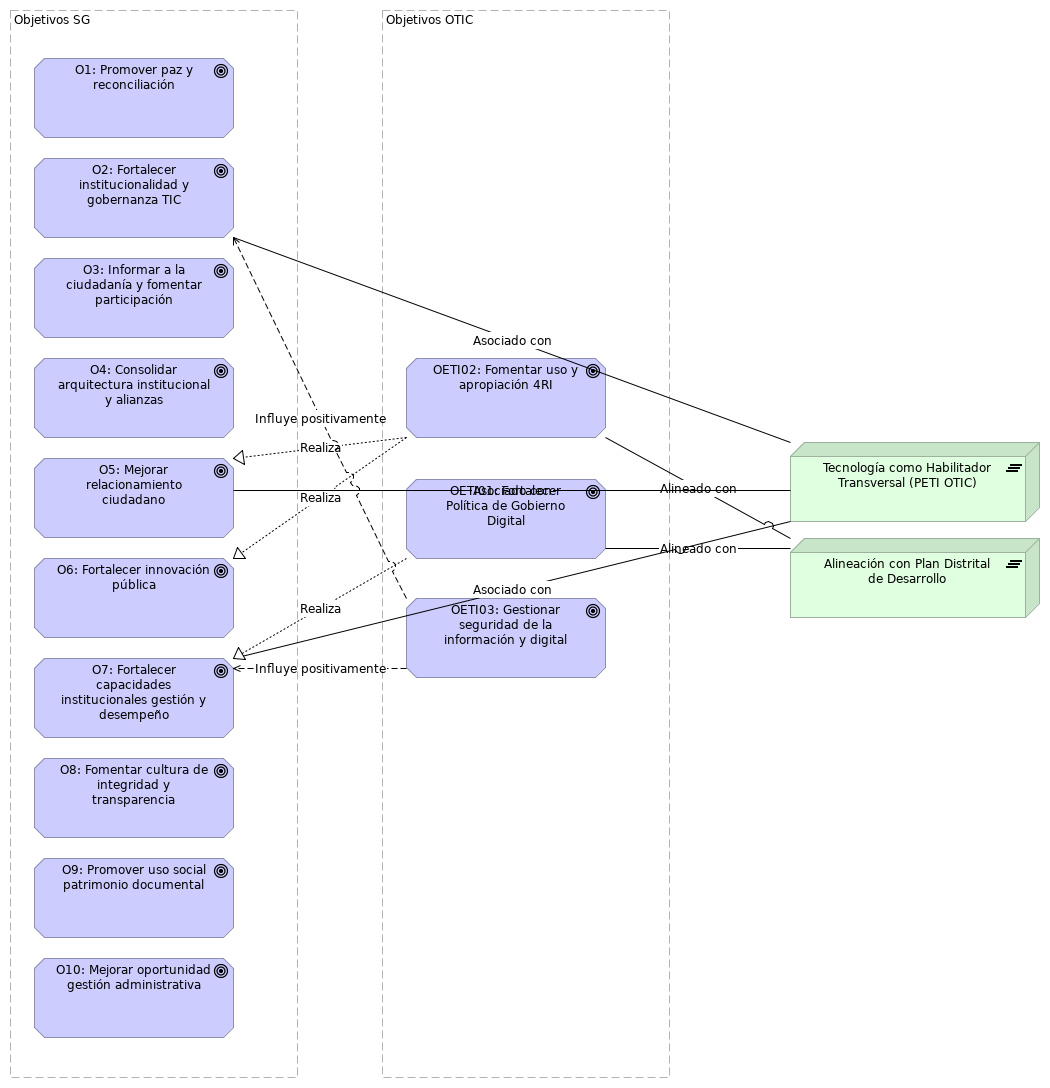
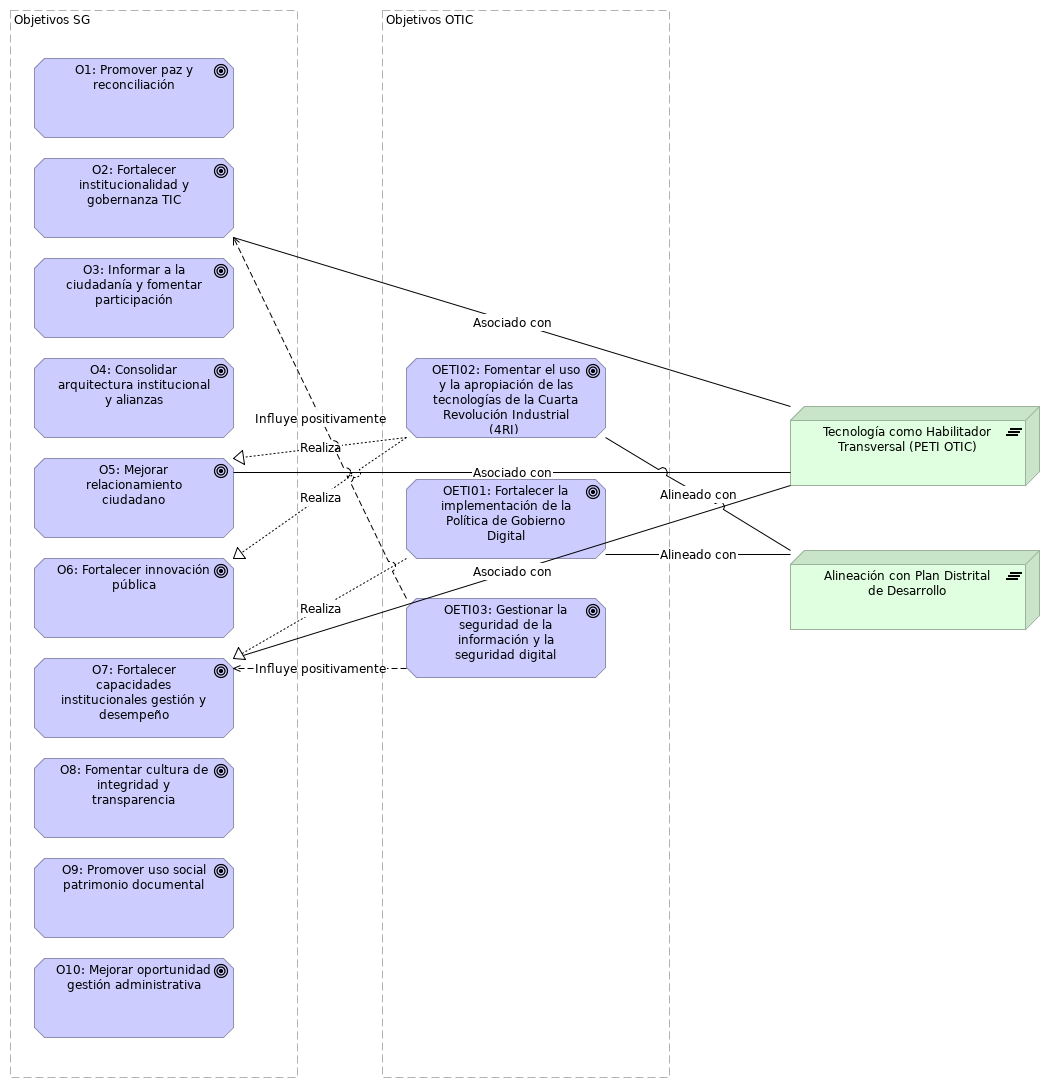
accion-actualizacionContd

diff --git a/contd/report/id-e61caa0dc3cc436aa918b17e0f565135/views/id-257a9a842fe0459c88cf09c4ebd37805.html b/contd/report/id-e61caa0dc3cc436aa918b17e0f565135/views/id-257a9a842fe0459c88cf09c4ebd37805.html
@@ -33,8 +33,8 @@
 		    <!-- If this is a digram model (has children and no bounds) show the image -->
 			   <img class="diagram" src="../images/id-257a9a842fe0459c88cf09c4ebd37805.png" alt="06.BMM. Objetivos SG-OTIC" usemap="#id-257a9a842fe0459c88cf09c4ebd37805map"/>
 			   <map name="id-257a9a842fe0459c88cf09c4ebd37805map">
-				  		<area shape="rect" coords="790,538,1040,618" href="../elements/id-b81286a1511f4cd499367182180f0ddb.html"  target="element">
-				  		<area shape="rect" coords="790,442,1040,522" href="../elements/id-5137f325d7364db0bc343ace4139ba3e.html"  target="element">
+				  		<area shape="rect" coords="790,550,1040,630" href="../elements/id-b81286a1511f4cd499367182180f0ddb.html"  target="element">
+				  		<area shape="rect" coords="790,406,1040,486" href="../elements/id-5137f325d7364db0bc343ace4139ba3e.html"  target="element">
 				  				<area shape="rect" coords="406,598,606,678" href="../elements/id-82f5c98e85bd4038ad25345d8758fb14.html"  target="element">
 				  				<area shape="rect" coords="406,358,606,438" href="../elements/id-13c3934dc188447f842bfd7fa291134e.html"  target="element">
 				  				<area shape="rect" coords="406,479,606,559" href="../elements/id-4780038f0aa24faab7ea555021126bee.html"  target="element">
@@ -170,19 +170,19 @@
 											</tr>
 
 													<tr>
-													    <td> <a href="../elements/id-4780038f0aa24faab7ea555021126bee.html" target="element"> OETI01: Fortalecer Pol&#237;tica de Gobierno Digital </a> </td>
+													    <td> <a href="../elements/id-4780038f0aa24faab7ea555021126bee.html" target="element"> OETI01: Fortalecer la implementaci&#243;n de la Pol&#237;tica de Gobierno Digital </a> </td>
 													    <td> <a href="../elements/id-4780038f0aa24faab7ea555021126bee.html" target="element" class="i18n-elementtype-Goal">
 													    </a> </td>
 													</tr>
 
 													<tr>
-													    <td> <a href="../elements/id-13c3934dc188447f842bfd7fa291134e.html" target="element"> OETI02: Fomentar uso y apropiaci&#243;n 4RI </a> </td>
+													    <td> <a href="../elements/id-13c3934dc188447f842bfd7fa291134e.html" target="element"> OETI02: Fomentar el uso y la apropiaci&#243;n de las tecnolog&#237;as de la Cuarta Revoluci&#243;n Industrial (4RI)  </a> </td>
 													    <td> <a href="../elements/id-13c3934dc188447f842bfd7fa291134e.html" target="element" class="i18n-elementtype-Goal">
 													    </a> </td>
 													</tr>
 
 													<tr>
-													    <td> <a href="../elements/id-82f5c98e85bd4038ad25345d8758fb14.html" target="element"> OETI03: Gestionar seguridad de la informaci&#243;n y digital </a> </td>
+													    <td> <a href="../elements/id-82f5c98e85bd4038ad25345d8758fb14.html" target="element"> OETI03: Gestionar la seguridad de la informaci&#243;n y la seguridad digital </a> </td>
 													    <td> <a href="../elements/id-82f5c98e85bd4038ad25345d8758fb14.html" target="element" class="i18n-elementtype-Goal">
 													    </a> </td>
 													</tr>
@@ -292,28 +292,28 @@
 																		<td> <a href="../elements/id-653c42175b3943288541f40f299f6028.html" target="element" class="i18n-elementtype-CompositionRelationship">
 																		</a> </td>
 																		<td> <a href="../elements/id-2c7df20247e149c7b367a3b05b79568f.html" target="element"> Objetivos OTIC </a> </td>
-																		<td> <a href="../elements/id-4780038f0aa24faab7ea555021126bee.html" target="element"> OETI01: Fortalecer Pol&#237;tica de Gobierno Digital </a> </td>
+																		<td> <a href="../elements/id-4780038f0aa24faab7ea555021126bee.html" target="element"> OETI01: Fortalecer la implementaci&#243;n de la Pol&#237;tica de Gobierno Digital </a> </td>
 																	</tr>
 																	<tr>
 																		<td> <a href="../elements/id-a9c17f5166ed4c8ebe899b2199fe4386.html" target="element">  </a> </td>
 																		<td> <a href="../elements/id-a9c17f5166ed4c8ebe899b2199fe4386.html" target="element" class="i18n-elementtype-CompositionRelationship">
 																		</a> </td>
 																		<td> <a href="../elements/id-2c7df20247e149c7b367a3b05b79568f.html" target="element"> Objetivos OTIC </a> </td>
-																		<td> <a href="../elements/id-13c3934dc188447f842bfd7fa291134e.html" target="element"> OETI02: Fomentar uso y apropiaci&#243;n 4RI </a> </td>
+																		<td> <a href="../elements/id-13c3934dc188447f842bfd7fa291134e.html" target="element"> OETI02: Fomentar el uso y la apropiaci&#243;n de las tecnolog&#237;as de la Cuarta Revoluci&#243;n Industrial (4RI)  </a> </td>
 																	</tr>
 																	<tr>
 																		<td> <a href="../elements/id-aca4162b0955420ea85ecce04d5fecb3.html" target="element">  </a> </td>
 																		<td> <a href="../elements/id-aca4162b0955420ea85ecce04d5fecb3.html" target="element" class="i18n-elementtype-CompositionRelationship">
 																		</a> </td>
 																		<td> <a href="../elements/id-2c7df20247e149c7b367a3b05b79568f.html" target="element"> Objetivos OTIC </a> </td>
-																		<td> <a href="../elements/id-82f5c98e85bd4038ad25345d8758fb14.html" target="element"> OETI03: Gestionar seguridad de la informaci&#243;n y digital </a> </td>
+																		<td> <a href="../elements/id-82f5c98e85bd4038ad25345d8758fb14.html" target="element"> OETI03: Gestionar la seguridad de la informaci&#243;n y la seguridad digital </a> </td>
 																	</tr>
 
 																			<tr>
 																				<td> <a href="../elements/id-edbeecf9ab044d0585a103f41d7e1c81.html" target="element"> Realiza </a> </td>
 																				<td> <a href="../elements/id-edbeecf9ab044d0585a103f41d7e1c81.html" target="element" class="i18n-elementtype-RealizationRelationship">
 																				</a> </td>
-																				<td> <a href="../elements/id-4780038f0aa24faab7ea555021126bee.html" target="element"> OETI01: Fortalecer Pol&#237;tica de Gobierno Digital </a> </td>
+																				<td> <a href="../elements/id-4780038f0aa24faab7ea555021126bee.html" target="element"> OETI01: Fortalecer la implementaci&#243;n de la Pol&#237;tica de Gobierno Digital </a> </td>
 																				<td> <a href="../elements/id-420057a3db3f4cc88b8645ee8a26527a.html" target="element"> O7: Fortalecer capacidades institucionales gesti&#243;n y desempe&#241;o </a> </td>
 																			</tr>
 
@@ -321,14 +321,14 @@
 																				<td> <a href="../elements/id-3370267003754503a9a075bf1a8cc7e0.html" target="element"> Realiza </a> </td>
 																				<td> <a href="../elements/id-3370267003754503a9a075bf1a8cc7e0.html" target="element" class="i18n-elementtype-RealizationRelationship">
 																				</a> </td>
-																				<td> <a href="../elements/id-13c3934dc188447f842bfd7fa291134e.html" target="element"> OETI02: Fomentar uso y apropiaci&#243;n 4RI </a> </td>
+																				<td> <a href="../elements/id-13c3934dc188447f842bfd7fa291134e.html" target="element"> OETI02: Fomentar el uso y la apropiaci&#243;n de las tecnolog&#237;as de la Cuarta Revoluci&#243;n Industrial (4RI)  </a> </td>
 																				<td> <a href="../elements/id-e79fa3327114461f8c74521f3de4fe35.html" target="element"> O6: Fortalecer innovaci&#243;n p&#250;blica </a> </td>
 																			</tr>
 																			<tr>
 																				<td> <a href="../elements/id-b9ee74c95c08409182be0b0aa73422ff.html" target="element"> Realiza </a> </td>
 																				<td> <a href="../elements/id-b9ee74c95c08409182be0b0aa73422ff.html" target="element" class="i18n-elementtype-RealizationRelationship">
 																				</a> </td>
-																				<td> <a href="../elements/id-13c3934dc188447f842bfd7fa291134e.html" target="element"> OETI02: Fomentar uso y apropiaci&#243;n 4RI </a> </td>
+																				<td> <a href="../elements/id-13c3934dc188447f842bfd7fa291134e.html" target="element"> OETI02: Fomentar el uso y la apropiaci&#243;n de las tecnolog&#237;as de la Cuarta Revoluci&#243;n Industrial (4RI)  </a> </td>
 																				<td> <a href="../elements/id-08d0a3e26e6a48cfa49fc0914f5942b9.html" target="element"> O5: Mejorar relacionamiento ciudadano </a> </td>
 																			</tr>
 
@@ -336,14 +336,14 @@
 																				<td> <a href="../elements/id-fd98fded5e9b4cd1900b3d3caf2c8e5c.html" target="element"> Influye positivamente </a> </td>
 																				<td> <a href="../elements/id-fd98fded5e9b4cd1900b3d3caf2c8e5c.html" target="element" class="i18n-elementtype-InfluenceRelationship">
 																				</a> </td>
-																				<td> <a href="../elements/id-82f5c98e85bd4038ad25345d8758fb14.html" target="element"> OETI03: Gestionar seguridad de la informaci&#243;n y digital </a> </td>
+																				<td> <a href="../elements/id-82f5c98e85bd4038ad25345d8758fb14.html" target="element"> OETI03: Gestionar la seguridad de la informaci&#243;n y la seguridad digital </a> </td>
 																				<td> <a href="../elements/id-420057a3db3f4cc88b8645ee8a26527a.html" target="element"> O7: Fortalecer capacidades institucionales gesti&#243;n y desempe&#241;o </a> </td>
 																			</tr>
 																			<tr>
 																				<td> <a href="../elements/id-ad50025a6a1840b6af28b294d8632d71.html" target="element"> Influye positivamente </a> </td>
 																				<td> <a href="../elements/id-ad50025a6a1840b6af28b294d8632d71.html" target="element" class="i18n-elementtype-InfluenceRelationship">
 																				</a> </td>
-																				<td> <a href="../elements/id-82f5c98e85bd4038ad25345d8758fb14.html" target="element"> OETI03: Gestionar seguridad de la informaci&#243;n y digital </a> </td>
+																				<td> <a href="../elements/id-82f5c98e85bd4038ad25345d8758fb14.html" target="element"> OETI03: Gestionar la seguridad de la informaci&#243;n y la seguridad digital </a> </td>
 																				<td> <a href="../elements/id-f934fe202519444ab5a4389e016fcc28.html" target="element"> O2: Fortalecer institucionalidad y gobernanza TIC </a> </td>
 																			</tr>
 
@@ -375,14 +375,14 @@
 																		<td> <a href="../elements/id-f7bef9b26525468d8a13c41f239442a1.html" target="element" class="i18n-elementtype-AssociationRelationship">
 																		</a> </td>
 																		<td> <a href="../elements/id-b81286a1511f4cd499367182180f0ddb.html" target="element"> Alineaci&#243;n con Plan Distrital de Desarrollo </a> </td>
-																		<td> <a href="../elements/id-4780038f0aa24faab7ea555021126bee.html" target="element"> OETI01: Fortalecer Pol&#237;tica de Gobierno Digital </a> </td>
+																		<td> <a href="../elements/id-4780038f0aa24faab7ea555021126bee.html" target="element"> OETI01: Fortalecer la implementaci&#243;n de la Pol&#237;tica de Gobierno Digital </a> </td>
 																	</tr>
 																	<tr>
 																		<td> <a href="../elements/id-7c72a7465f554ecb9ca8c0aadff52ece.html" target="element"> Alineado con </a> </td>
 																		<td> <a href="../elements/id-7c72a7465f554ecb9ca8c0aadff52ece.html" target="element" class="i18n-elementtype-AssociationRelationship">
 																		</a> </td>
 																		<td> <a href="../elements/id-b81286a1511f4cd499367182180f0ddb.html" target="element"> Alineaci&#243;n con Plan Distrital de Desarrollo </a> </td>
-																		<td> <a href="../elements/id-13c3934dc188447f842bfd7fa291134e.html" target="element"> OETI02: Fomentar uso y apropiaci&#243;n 4RI </a> </td>
+																		<td> <a href="../elements/id-13c3934dc188447f842bfd7fa291134e.html" target="element"> OETI02: Fomentar el uso y la apropiaci&#243;n de las tecnolog&#237;as de la Cuarta Revoluci&#243;n Industrial (4RI)  </a> </td>
 																	</tr>
 
 

diff --git a/contd/report/index.html b/contd/report/index.html
@@ -366,16 +366,16 @@
 											</ul>
 											</li>
 													<li class="tree-element "><a href="id-e61caa0dc3cc436aa918b17e0f565135/elements/id-420057a3db3f4cc88b8645ee8a26527a.html" target="element"> O7: Fortalecer capacidades institucionales gesti&#243;n y desempe&#241;o </a></li>
-													<li class="tree-element "><a href="id-e61caa0dc3cc436aa918b17e0f565135/elements/id-4780038f0aa24faab7ea555021126bee.html" target="element"> OETI01: Fortalecer Pol&#237;tica de Gobierno Digital </a></li>
+													<li class="tree-element "><a href="id-e61caa0dc3cc436aa918b17e0f565135/elements/id-4780038f0aa24faab7ea555021126bee.html" target="element"> OETI01: Fortalecer la implementaci&#243;n de la Pol&#237;tica de Gobierno Digital </a></li>
 													<li class="tree-element "><a href="id-e61caa0dc3cc436aa918b17e0f565135/elements/id-e79fa3327114461f8c74521f3de4fe35.html" target="element"> O6: Fortalecer innovaci&#243;n p&#250;blica </a></li>
 													<li class="tree-element "><a href="id-e61caa0dc3cc436aa918b17e0f565135/elements/id-9e7e57f3819047db849e9ef04a3f242d.html" target="element"> O8: Fomentar cultura de integridad y transparencia </a></li>
 													<li class="tree-element "><a href="id-e61caa0dc3cc436aa918b17e0f565135/elements/id-f8b7854a2dd14d39860ba74aafc10a70.html" target="element"> O9: Promover uso social patrimonio documental </a></li>
 													<li class="tree-element "><a href="id-e61caa0dc3cc436aa918b17e0f565135/elements/id-d672e16628ac4b15a05283ea056414d2.html" target="element"> O4: Consolidar arquitectura institucional y alianzas </a></li>
 													<li class="tree-element "><a href="id-e61caa0dc3cc436aa918b17e0f565135/elements/id-08d0a3e26e6a48cfa49fc0914f5942b9.html" target="element"> O5: Mejorar relacionamiento ciudadano </a></li>
-													<li class="tree-element "><a href="id-e61caa0dc3cc436aa918b17e0f565135/elements/id-13c3934dc188447f842bfd7fa291134e.html" target="element"> OETI02: Fomentar uso y apropiaci&#243;n 4RI </a></li>
+													<li class="tree-element "><a href="id-e61caa0dc3cc436aa918b17e0f565135/elements/id-13c3934dc188447f842bfd7fa291134e.html" target="element"> OETI02: Fomentar el uso y la apropiaci&#243;n de las tecnolog&#237;as de la Cuarta Revoluci&#243;n Industrial (4RI)  </a></li>
 													<li class="tree-element "><a href="id-e61caa0dc3cc436aa918b17e0f565135/elements/id-f934fe202519444ab5a4389e016fcc28.html" target="element"> O2: Fortalecer institucionalidad y gobernanza TIC </a></li>
 													<li class="tree-element "><a href="id-e61caa0dc3cc436aa918b17e0f565135/elements/id-fd4844968a69467c83e0e1da0e4fd44f.html" target="element"> O3: Informar a la ciudadan&#237;a y fomentar participaci&#243;n </a></li>
-													<li class="tree-element "><a href="id-e61caa0dc3cc436aa918b17e0f565135/elements/id-82f5c98e85bd4038ad25345d8758fb14.html" target="element"> OETI03: Gestionar seguridad de la informaci&#243;n y digital </a></li>
+													<li class="tree-element "><a href="id-e61caa0dc3cc436aa918b17e0f565135/elements/id-82f5c98e85bd4038ad25345d8758fb14.html" target="element"> OETI03: Gestionar la seguridad de la informaci&#243;n y la seguridad digital </a></li>
 													<li class="tree-element "><a href="id-e61caa0dc3cc436aa918b17e0f565135/elements/id-66493f91d4db42bbb32f7d63e080a645.html" target="element"> O1: Promover paz y reconciliaci&#243;n </a></li>
 													<li class="tree-element "><a href="id-e61caa0dc3cc436aa918b17e0f565135/elements/id-645c0989d7e34820a24431ef902654a7.html" target="element"> O10: Mejorar oportunidad gesti&#243;n administrativa </a></li>
 
@@ -548,7 +548,7 @@
 													</a></li>
 													<li class="tree-element "><a href="id-e61caa0dc3cc436aa918b17e0f565135/elements/id-fd98fded5e9b4cd1900b3d3caf2c8e5c.html" target="element">
 															Influye positivamente
-														(OETI03: Gestionar seguridad de la informaci&#243;n y digital - O7: Fortalecer capacidades institucionales gesti&#243;n y desempe&#241;o) 
+														(OETI03: Gestionar la seguridad de la informaci&#243;n y la seguridad digital - O7: Fortalecer capacidades institucionales gesti&#243;n y desempe&#241;o) 
 													</a></li>
 													<li class="tree-element "><a href="id-e61caa0dc3cc436aa918b17e0f565135/elements/id-7a1b14e50cfb4809be464f39bdae46d3.html" target="element">
 															<span class="i18n-elementtype-CompositionRelationship"></span>
@@ -600,7 +600,7 @@
 													</a></li>
 													<li class="tree-element "><a href="id-e61caa0dc3cc436aa918b17e0f565135/elements/id-f7bef9b26525468d8a13c41f239442a1.html" target="element">
 															Alineado con
-														(Alineaci&#243;n con Plan Distrital de Desarrollo - OETI01: Fortalecer Pol&#237;tica de Gobierno Digital) 
+														(Alineaci&#243;n con Plan Distrital de Desarrollo - OETI01: Fortalecer la implementaci&#243;n de la Pol&#237;tica de Gobierno Digital) 
 													</a></li>
 													<li class="tree-element "><a href="id-e61caa0dc3cc436aa918b17e0f565135/elements/id-72eb9d7dc0834fe2af9f96b68b235d45.html" target="element">
 															<span class="i18n-elementtype-CompositionRelationship"></span>
@@ -712,7 +712,7 @@
 													</a></li>
 													<li class="tree-element "><a href="id-e61caa0dc3cc436aa918b17e0f565135/elements/id-653c42175b3943288541f40f299f6028.html" target="element">
 															<span class="i18n-elementtype-CompositionRelationship"></span>
-														(Objetivos OTIC - OETI01: Fortalecer Pol&#237;tica de Gobierno Digital) 
+														(Objetivos OTIC - OETI01: Fortalecer la implementaci&#243;n de la Pol&#237;tica de Gobierno Digital) 
 													</a></li>
 													<li class="tree-element "><a href="id-e61caa0dc3cc436aa918b17e0f565135/elements/id-6c55e3fd73564967a1055fe03572dcb1.html" target="element">
 															<span class="i18n-elementtype-AssociationRelationship"></span>
@@ -784,7 +784,7 @@
 													</a></li>
 													<li class="tree-element "><a href="id-e61caa0dc3cc436aa918b17e0f565135/elements/id-ad50025a6a1840b6af28b294d8632d71.html" target="element">
 															Influye positivamente
-														(OETI03: Gestionar seguridad de la informaci&#243;n y digital - O2: Fortalecer institucionalidad y gobernanza TIC) 
+														(OETI03: Gestionar la seguridad de la informaci&#243;n y la seguridad digital - O2: Fortalecer institucionalidad y gobernanza TIC) 
 													</a></li>
 													<li class="tree-element "><a href="id-e61caa0dc3cc436aa918b17e0f565135/elements/id-f969e74ccc9c4ee9a8969e22bbc6e1a8.html" target="element">
 															<span class="i18n-elementtype-AggregationRelationship"></span>
@@ -1024,7 +1024,7 @@
 													</a></li>
 													<li class="tree-element "><a href="id-e61caa0dc3cc436aa918b17e0f565135/elements/id-7c72a7465f554ecb9ca8c0aadff52ece.html" target="element">
 															Alineado con
-														(Alineaci&#243;n con Plan Distrital de Desarrollo - OETI02: Fomentar uso y apropiaci&#243;n 4RI) 
+														(Alineaci&#243;n con Plan Distrital de Desarrollo - OETI02: Fomentar el uso y la apropiaci&#243;n de las tecnolog&#237;as de la Cuarta Revoluci&#243;n Industrial (4RI) ) 
 													</a></li>
 													<li class="tree-element "><a href="id-e61caa0dc3cc436aa918b17e0f565135/elements/id-7f777b0f10474abc90c54c4d92e76ce0.html" target="element">
 															<span class="i18n-elementtype-ServingRelationship"></span>
@@ -1068,7 +1068,7 @@
 													</a></li>
 													<li class="tree-element "><a href="id-e61caa0dc3cc436aa918b17e0f565135/elements/id-a9c17f5166ed4c8ebe899b2199fe4386.html" target="element">
 															<span class="i18n-elementtype-CompositionRelationship"></span>
-														(Objetivos OTIC - OETI02: Fomentar uso y apropiaci&#243;n 4RI) 
+														(Objetivos OTIC - OETI02: Fomentar el uso y la apropiaci&#243;n de las tecnolog&#237;as de la Cuarta Revoluci&#243;n Industrial (4RI) ) 
 													</a></li>
 													<li class="tree-element "><a href="id-e61caa0dc3cc436aa918b17e0f565135/elements/id-eb1127b2c647444ea07997ab7d3b41be.html" target="element">
 															soporta
@@ -1108,7 +1108,7 @@
 													</a></li>
 													<li class="tree-element "><a href="id-e61caa0dc3cc436aa918b17e0f565135/elements/id-edbeecf9ab044d0585a103f41d7e1c81.html" target="element">
 															Realiza
-														(OETI01: Fortalecer Pol&#237;tica de Gobierno Digital - O7: Fortalecer capacidades institucionales gesti&#243;n y desempe&#241;o) 
+														(OETI01: Fortalecer la implementaci&#243;n de la Pol&#237;tica de Gobierno Digital - O7: Fortalecer capacidades institucionales gesti&#243;n y desempe&#241;o) 
 													</a></li>
 													<li class="tree-element "><a href="id-e61caa0dc3cc436aa918b17e0f565135/elements/id-60d78ff45f6640ab87b5c3fdb0cd556e.html" target="element">
 															<span class="i18n-elementtype-AssociationRelationship"></span>
@@ -1328,7 +1328,7 @@
 													</a></li>
 													<li class="tree-element "><a href="id-e61caa0dc3cc436aa918b17e0f565135/elements/id-aca4162b0955420ea85ecce04d5fecb3.html" target="element">
 															<span class="i18n-elementtype-CompositionRelationship"></span>
-														(Objetivos OTIC - OETI03: Gestionar seguridad de la informaci&#243;n y digital) 
+														(Objetivos OTIC - OETI03: Gestionar la seguridad de la informaci&#243;n y la seguridad digital) 
 													</a></li>
 													<li class="tree-element "><a href="id-e61caa0dc3cc436aa918b17e0f565135/elements/id-0b04357bbe3046068850df0ee94ff014.html" target="element">
 															<span class="i18n-elementtype-CompositionRelationship"></span>
@@ -1476,7 +1476,7 @@
 													</a></li>
 													<li class="tree-element "><a href="id-e61caa0dc3cc436aa918b17e0f565135/elements/id-b9ee74c95c08409182be0b0aa73422ff.html" target="element">
 															Realiza
-														(OETI02: Fomentar uso y apropiaci&#243;n 4RI - O5: Mejorar relacionamiento ciudadano) 
+														(OETI02: Fomentar el uso y la apropiaci&#243;n de las tecnolog&#237;as de la Cuarta Revoluci&#243;n Industrial (4RI)  - O5: Mejorar relacionamiento ciudadano) 
 													</a></li>
 													<li class="tree-element "><a href="id-e61caa0dc3cc436aa918b17e0f565135/elements/id-d3709212c04c42768186e4833908b202.html" target="element">
 															<span class="i18n-elementtype-RealizationRelationship"></span>
@@ -1536,7 +1536,7 @@
 													</a></li>
 													<li class="tree-element "><a href="id-e61caa0dc3cc436aa918b17e0f565135/elements/id-3370267003754503a9a075bf1a8cc7e0.html" target="element">
 															Realiza
-														(OETI02: Fomentar uso y apropiaci&#243;n 4RI - O6: Fortalecer innovaci&#243;n p&#250;blica) 
+														(OETI02: Fomentar el uso y la apropiaci&#243;n de las tecnolog&#237;as de la Cuarta Revoluci&#243;n Industrial (4RI)  - O6: Fortalecer innovaci&#243;n p&#250;blica) 
 													</a></li>
 													<li class="tree-element "><a href="id-e61caa0dc3cc436aa918b17e0f565135/elements/id-a68e76f6e3d646a5a775db7d7791f70c.html" target="element">
 															<span class="i18n-elementtype-CompositionRelationship"></span>

diff --git a/contd/report/id-e61caa0dc3cc436aa918b17e0f565135/elements/model.html b/contd/report/id-e61caa0dc3cc436aa918b17e0f565135/elements/model.html
@@ -661,7 +661,7 @@ Documentos t&#233;cnicos. Ejercicio de arquitectura empresarial.
 									dataFoldersContent.push({folderid:"id-af0030490ef54a878db05f871880ff4c", contentid:"id-420057a3db3f4cc88b8645ee8a26527a", contenttype:"Goal"});
 										dataElements.push({id:"id-420057a3db3f4cc88b8645ee8a26527a", type:"Goal", specialization:decodeURL(""), name:decodeURL("O7%3A+Fortalecer+capacidades+institucionales+gesti%C3%B3n+y+desempe%C3%B1o"), documentation:decodeURL("Fortalecer+las+capacidades+institucionales+para+la+implementaci%C3%B3n+de+las+pol%C3%ADticas+de+gesti%C3%B3n+y+desempe%C3%B1o%2C+con+el+objetivo+de+generar+valor+p%C3%BAblico%2C+contribuir+a+la+soluci%C3%B3n+de+los+retos+de+la+ciudad+y+promover+la+participaci%C3%B3n+ciudadana.")});
 									dataFoldersContent.push({folderid:"id-af0030490ef54a878db05f871880ff4c", contentid:"id-4780038f0aa24faab7ea555021126bee", contenttype:"Goal"});
-										dataElements.push({id:"id-4780038f0aa24faab7ea555021126bee", type:"Goal", specialization:decodeURL(""), name:decodeURL("OETI01%3A+Fortalecer+Pol%C3%ADtica+de+Gobierno+Digital"), documentation:decodeURL("Fortalecer+la+implementaci%C3%B3n+de+la+Pol%C3%ADtica+de+Gobierno+Digital+para+promover+la+transformaci%C3%B3n+digital+en+la+Secretar%C3%ADa+General%2C+y+optimizar+las+capacidades+tecnol%C3%B3gicas%2C+con+el+fin+de+garantizar+una+gesti%C3%B3n+p%C3%BAblica+eficiente%2C+transparente+y+accesible+para+la+ciudadan%C3%ADa.")});
+										dataElements.push({id:"id-4780038f0aa24faab7ea555021126bee", type:"Goal", specialization:decodeURL(""), name:decodeURL("OETI01%3A+Fortalecer+la+implementaci%C3%B3n+de+la+Pol%C3%ADtica+de+Gobierno+Digital"), documentation:decodeURL("Fortalecer+la+implementaci%C3%B3n+de+la+Pol%C3%ADtica+de+Gobierno+Digital+para+promover+la+transformaci%C3%B3n+digital+en+la+Secretar%C3%ADa+General%2C+y+optimizar+las+capacidades+tecnol%C3%B3gicas%2C+con+el+fin+de+garantizar+una+gesti%C3%B3n+p%C3%BAblica+eficiente%2C+transparente+y+accesible+para+la+ciudadan%C3%ADa.")});
 									dataFoldersContent.push({folderid:"id-af0030490ef54a878db05f871880ff4c", contentid:"id-e79fa3327114461f8c74521f3de4fe35", contenttype:"Goal"});
 										dataElements.push({id:"id-e79fa3327114461f8c74521f3de4fe35", type:"Goal", specialization:decodeURL(""), name:decodeURL("O6%3A+Fortalecer+innovaci%C3%B3n+p%C3%BAblica"), documentation:decodeURL("Fortalecer+los+procesos+de+innovaci%C3%B3n+p%C3%BAblica+en+las+entidades+distritales%2C+facilitando+habilitadores%2C+desarrollando+capacidades+en+intraemprendimiento%2C+promoviendo+el+trabajo+colaborativo+y+la+articulaci%C3%B3n+entre+actores+p%C3%BAblicos+y+privados.")});
 									dataFoldersContent.push({folderid:"id-af0030490ef54a878db05f871880ff4c", contentid:"id-9e7e57f3819047db849e9ef04a3f242d", contenttype:"Goal"});
@@ -673,13 +673,13 @@ Documentos t&#233;cnicos. Ejercicio de arquitectura empresarial.
 									dataFoldersContent.push({folderid:"id-af0030490ef54a878db05f871880ff4c", contentid:"id-08d0a3e26e6a48cfa49fc0914f5942b9", contenttype:"Goal"});
 										dataElements.push({id:"id-08d0a3e26e6a48cfa49fc0914f5942b9", type:"Goal", specialization:decodeURL(""), name:decodeURL("O5%3A+Mejorar+relacionamiento+ciudadano"), documentation:decodeURL("Mejorar+el+relacionamiento+de+la+ciudadan%C3%ADa+con+el+gobierno+distrital+a+trav%C3%A9s+del+fortalecimiento+de+la+oferta+institucional%2C+la+modernizaci%C3%B3n+de+los+canales+de+atenci%C3%B3n+y+la+cualificaci%C3%B3n+del+talento+humano%2C+contribuyendo+al+aumento+de+la+confianza+y+satisfacci%C3%B3n+ciudadana.")});
 									dataFoldersContent.push({folderid:"id-af0030490ef54a878db05f871880ff4c", contentid:"id-13c3934dc188447f842bfd7fa291134e", contenttype:"Goal"});
-										dataElements.push({id:"id-13c3934dc188447f842bfd7fa291134e", type:"Goal", specialization:decodeURL(""), name:decodeURL("OETI02%3A+Fomentar+uso+y+apropiaci%C3%B3n+4RI"), documentation:decodeURL("Fomentar+el+uso+y+la+apropiaci%C3%B3n+de+las+tecnolog%C3%ADas+de+la+Cuarta+Revoluci%C3%B3n+Industrial+%284RI%29+para+impulsar+la+transformaci%C3%B3n+digital+en+la+Secretar%C3%ADa+General%2C+integrando+tecnolog%C3%ADas+emergentes+que+optimicen+los+procesos%2C+promuevan+la+innovaci%C3%B3n+y+mejoren+la+eficiencia+en+la+gesti%C3%B3n+p%C3%BAblica.")});
+										dataElements.push({id:"id-13c3934dc188447f842bfd7fa291134e", type:"Goal", specialization:decodeURL(""), name:decodeURL("OETI02%3A+Fomentar+el+uso+y+la+apropiaci%C3%B3n+de+las+tecnolog%C3%ADas+de+la+Cuarta+Revoluci%C3%B3n+Industrial+%284RI%29+"), documentation:decodeURL("Fomentar+el+uso+y+la+apropiaci%C3%B3n+de+las+tecnolog%C3%ADas+de+la+Cuarta+Revoluci%C3%B3n+Industrial+%284RI%29+para+impulsar+la+transformaci%C3%B3n+digital+en+la+Secretar%C3%ADa+General%2C+integrando+tecnolog%C3%ADas+emergentes+que+optimicen+los+procesos%2C+promuevan+la+innovaci%C3%B3n+y+mejoren+la+eficiencia+en+la+gesti%C3%B3n+p%C3%BAblica.")});
 									dataFoldersContent.push({folderid:"id-af0030490ef54a878db05f871880ff4c", contentid:"id-f934fe202519444ab5a4389e016fcc28", contenttype:"Goal"});
 										dataElements.push({id:"id-f934fe202519444ab5a4389e016fcc28", type:"Goal", specialization:decodeURL(""), name:decodeURL("O2%3A+Fortalecer+institucionalidad+y+gobernanza+TIC"), documentation:decodeURL("Fortalecer+la+institucionalidad+y+gobernanza+para+impulsar+y+coordinar+el+uso+de+las+Tecnolog%C3%ADas+de+la+Informaci%C3%B3n+y+las+Comunicaciones+%28TIC%29%2C+con+el+fin+de+establecer+un+marco+normativo%2C+habilitar+la+infraestructura%2C+promover+el+talento+digital+y+crear+procesos+eficientes+para+la+prestaci%C3%B3n+de+servicios+ciudadanos+y+la+transformaci%C3%B3n+de+la+administraci%C3%B3n+p%C3%BAblica.")});
 									dataFoldersContent.push({folderid:"id-af0030490ef54a878db05f871880ff4c", contentid:"id-fd4844968a69467c83e0e1da0e4fd44f", contenttype:"Goal"});
 										dataElements.push({id:"id-fd4844968a69467c83e0e1da0e4fd44f", type:"Goal", specialization:decodeURL(""), name:decodeURL("O3%3A+Informar+a+la+ciudadan%C3%ADa+y+fomentar+participaci%C3%B3n"), documentation:decodeURL("Informar+a+la+ciudadan%C3%ADa+mediante+campa%C3%B1as+y+estrategias+de+comunicaci%C3%B3n+sobre+temas+de+ciudad%2C+para+fomentar+la+participaci%C3%B3n+ciudadana+y+la+transparencia+de+la+gesti%C3%B3n+p%C3%BAblica.")});
 									dataFoldersContent.push({folderid:"id-af0030490ef54a878db05f871880ff4c", contentid:"id-82f5c98e85bd4038ad25345d8758fb14", contenttype:"Goal"});
-										dataElements.push({id:"id-82f5c98e85bd4038ad25345d8758fb14", type:"Goal", specialization:decodeURL(""), name:decodeURL("OETI03%3A+Gestionar+seguridad+de+la+informaci%C3%B3n+y+digital"), documentation:decodeURL("Gestionar+la+seguridad+de+la+informaci%C3%B3n+y+la+seguridad+digital+mediante+la+adopci%C3%B3n+de+pol%C3%ADticas%2C+controles+y+campa%C3%B1as+de+concienciaci%C3%B3n+que+fomenten+una+cultura+digital+segura%2C+as%C3%AD+como+la+implementaci%C3%B3n+de+estrategias+para+asegurar+la+continuidad+de+los+servicios+de+TIC.")});
+										dataElements.push({id:"id-82f5c98e85bd4038ad25345d8758fb14", type:"Goal", specialization:decodeURL(""), name:decodeURL("OETI03%3A+Gestionar+la+seguridad+de+la+informaci%C3%B3n+y+la+seguridad+digital"), documentation:decodeURL("Gestionar+la+seguridad+de+la+informaci%C3%B3n+y+la+seguridad+digital+mediante+la+adopci%C3%B3n+de+pol%C3%ADticas%2C+controles+y+campa%C3%B1as+de+concienciaci%C3%B3n+que+fomenten+una+cultura+digital+segura%2C+as%C3%AD+como+la+implementaci%C3%B3n+de+estrategias+para+asegurar+la+continuidad+de+los+servicios+de+TIC.")});
 									dataFoldersContent.push({folderid:"id-af0030490ef54a878db05f871880ff4c", contentid:"id-66493f91d4db42bbb32f7d63e080a645", contenttype:"Goal"});
 										dataElements.push({id:"id-66493f91d4db42bbb32f7d63e080a645", type:"Goal", specialization:decodeURL(""), name:decodeURL("O1%3A+Promover+paz+y+reconciliaci%C3%B3n"), documentation:decodeURL("Promover+la+paz+y+la+reconciliaci%C3%B3n+en+Bogot%C3%A1+a+trav%C3%A9s+de+la+integraci%C3%B3n+local+de+las+poblaciones+afectadas+por+el+conflicto+armado%2C+buscando+la+superaci%C3%B3n+de+sus+condiciones+de+vulnerabilidad+y+la+reconstrucci%C3%B3n+del+tejido+social+en+la+ciudad.")});
 									dataFoldersContent.push({folderid:"id-af0030490ef54a878db05f871880ff4c", contentid:"id-645c0989d7e34820a24431ef902654a7", contenttype:"Goal"});

diff --git a/contd/report/id-e61caa0dc3cc436aa918b17e0f565135/elements/id-13c3934dc188447f842bfd7fa291134e.html b/contd/report/id-e61caa0dc3cc436aa918b17e0f565135/elements/id-13c3934dc188447f842bfd7fa291134e.html
@@ -2,7 +2,7 @@
 <html class="frame" lang="en">
 <head>
 	<meta http-equiv="Content-Type" content="text/html;charset=utf-8">
-	<title>OETI02: Fomentar uso y apropiación 4RI</title>
+	<title>OETI02: Fomentar el uso y la apropiación de las tecnologías de la Cuarta Revolución Industrial (4RI) </title>
 
 	<!-- JQUERY (use 1.x branch to be compatible with IE 6/7/8) -->
 	<script type="text/javascript" src="../../lib/jquery/js/jquery-1.11.2.min.js"></script>
@@ -21,7 +21,7 @@
 
 		<div class="panel-heading root-panel-heading">
             <!-- Name -->
-               <b>OETI02: Fomentar uso y apropiaci&#243;n 4RI</b>
+               <b>OETI02: Fomentar el uso y la apropiaci&#243;n de las tecnolog&#237;as de la Cuarta Revoluci&#243;n Industrial (4RI) </b>
 
             <!-- If a View with Viewpoint -->
 			   (<span class="i18n-elementtype-Goal"></span>)

diff --git a/contd/report/id-e61caa0dc3cc436aa918b17e0f565135/elements/id-82f5c98e85bd4038ad25345d8758fb14.html b/contd/report/id-e61caa0dc3cc436aa918b17e0f565135/elements/id-82f5c98e85bd4038ad25345d8758fb14.html
@@ -2,7 +2,7 @@
 <html class="frame" lang="en">
 <head>
 	<meta http-equiv="Content-Type" content="text/html;charset=utf-8">
-	<title>OETI03: Gestionar seguridad de la información y digital</title>
+	<title>OETI03: Gestionar la seguridad de la información y la seguridad digital</title>
 
 	<!-- JQUERY (use 1.x branch to be compatible with IE 6/7/8) -->
 	<script type="text/javascript" src="../../lib/jquery/js/jquery-1.11.2.min.js"></script>
@@ -21,7 +21,7 @@
 
 		<div class="panel-heading root-panel-heading">
             <!-- Name -->
-               <b>OETI03: Gestionar seguridad de la informaci&#243;n y digital</b>
+               <b>OETI03: Gestionar la seguridad de la informaci&#243;n y la seguridad digital</b>
 
             <!-- If a View with Viewpoint -->
 			   (<span class="i18n-elementtype-Goal"></span>)

diff --git a/contd/report/id-e61caa0dc3cc436aa918b17e0f565135/elements/id-4780038f0aa24faab7ea555021126bee.html b/contd/report/id-e61caa0dc3cc436aa918b17e0f565135/elements/id-4780038f0aa24faab7ea555021126bee.html
@@ -2,7 +2,7 @@
 <html class="frame" lang="en">
 <head>
 	<meta http-equiv="Content-Type" content="text/html;charset=utf-8">
-	<title>OETI01: Fortalecer Política de Gobierno Digital</title>
+	<title>OETI01: Fortalecer la implementación de la Política de Gobierno Digital</title>
 
 	<!-- JQUERY (use 1.x branch to be compatible with IE 6/7/8) -->
 	<script type="text/javascript" src="../../lib/jquery/js/jquery-1.11.2.min.js"></script>
@@ -21,7 +21,7 @@
 
 		<div class="panel-heading root-panel-heading">
             <!-- Name -->
-               <b>OETI01: Fortalecer Pol&#237;tica de Gobierno Digital</b>
+               <b>OETI01: Fortalecer la implementaci&#243;n de la Pol&#237;tica de Gobierno Digital</b>
 
             <!-- If a View with Viewpoint -->
 			   (<span class="i18n-elementtype-Goal"></span>)

diff --git a/contd/report/id-e61caa0dc3cc436aa918b17e0f565135/elements/id-3370267003754503a9a075bf1a8cc7e0.html b/contd/report/id-e61caa0dc3cc436aa918b17e0f565135/elements/id-3370267003754503a9a075bf1a8cc7e0.html
@@ -48,7 +48,7 @@
 							<br>
 							<b class="i18n-relation-source"></b>
 								<a href="../elements/id-13c3934dc188447f842bfd7fa291134e.html" target="element">
-									OETI02: Fomentar uso y apropiaci&#243;n 4RI
+									OETI02: Fomentar el uso y la apropiaci&#243;n de las tecnolog&#237;as de la Cuarta Revoluci&#243;n Industrial (4RI) 
 								</a>
 							<br>
 							<b class="i18n-relation-target"></b>

diff --git a/contd/report/id-e61caa0dc3cc436aa918b17e0f565135/elements/id-b9ee74c95c08409182be0b0aa73422ff.html b/contd/report/id-e61caa0dc3cc436aa918b17e0f565135/elements/id-b9ee74c95c08409182be0b0aa73422ff.html
@@ -48,7 +48,7 @@
 							<br>
 							<b class="i18n-relation-source"></b>
 								<a href="../elements/id-13c3934dc188447f842bfd7fa291134e.html" target="element">
-									OETI02: Fomentar uso y apropiaci&#243;n 4RI
+									OETI02: Fomentar el uso y la apropiaci&#243;n de las tecnolog&#237;as de la Cuarta Revoluci&#243;n Industrial (4RI) 
 								</a>
 							<br>
 							<b class="i18n-relation-target"></b>

diff --git a/contd/report/id-e61caa0dc3cc436aa918b17e0f565135/elements/id-ad50025a6a1840b6af28b294d8632d71.html b/contd/report/id-e61caa0dc3cc436aa918b17e0f565135/elements/id-ad50025a6a1840b6af28b294d8632d71.html
@@ -48,7 +48,7 @@
 							<br>
 							<b class="i18n-relation-source"></b>
 								<a href="../elements/id-82f5c98e85bd4038ad25345d8758fb14.html" target="element">
-									OETI03: Gestionar seguridad de la informaci&#243;n y digital
+									OETI03: Gestionar la seguridad de la informaci&#243;n y la seguridad digital
 								</a>
 							<br>
 							<b class="i18n-relation-target"></b>

diff --git a/contd/report/id-e61caa0dc3cc436aa918b17e0f565135/elements/id-fd98fded5e9b4cd1900b3d3caf2c8e5c.html b/contd/report/id-e61caa0dc3cc436aa918b17e0f565135/elements/id-fd98fded5e9b4cd1900b3d3caf2c8e5c.html
@@ -48,7 +48,7 @@
 							<br>
 							<b class="i18n-relation-source"></b>
 								<a href="../elements/id-82f5c98e85bd4038ad25345d8758fb14.html" target="element">
-									OETI03: Gestionar seguridad de la informaci&#243;n y digital
+									OETI03: Gestionar la seguridad de la informaci&#243;n y la seguridad digital
 								</a>
 							<br>
 							<b class="i18n-relation-target"></b>

diff --git a/contd/report/id-e61caa0dc3cc436aa918b17e0f565135/elements/id-edbeecf9ab044d0585a103f41d7e1c81.html b/contd/report/id-e61caa0dc3cc436aa918b17e0f565135/elements/id-edbeecf9ab044d0585a103f41d7e1c81.html
@@ -48,7 +48,7 @@
 							<br>
 							<b class="i18n-relation-source"></b>
 								<a href="../elements/id-4780038f0aa24faab7ea555021126bee.html" target="element">
-									OETI01: Fortalecer Pol&#237;tica de Gobierno Digital
+									OETI01: Fortalecer la implementaci&#243;n de la Pol&#237;tica de Gobierno Digital
 								</a>
 							<br>
 							<b class="i18n-relation-target"></b>

diff --git a/contd/report/id-e61caa0dc3cc436aa918b17e0f565135/elements/id-7c72a7465f554ecb9ca8c0aadff52ece.html b/contd/report/id-e61caa0dc3cc436aa918b17e0f565135/elements/id-7c72a7465f554ecb9ca8c0aadff52ece.html
@@ -53,7 +53,7 @@
 							<br>
 							<b class="i18n-relation-target"></b>
 								<a href="../elements/id-13c3934dc188447f842bfd7fa291134e.html" target="element">
-									OETI02: Fomentar uso y apropiaci&#243;n 4RI
+									OETI02: Fomentar el uso y la apropiaci&#243;n de las tecnolog&#237;as de la Cuarta Revoluci&#243;n Industrial (4RI) 
 								</a>
 							<br>
 							<br>
